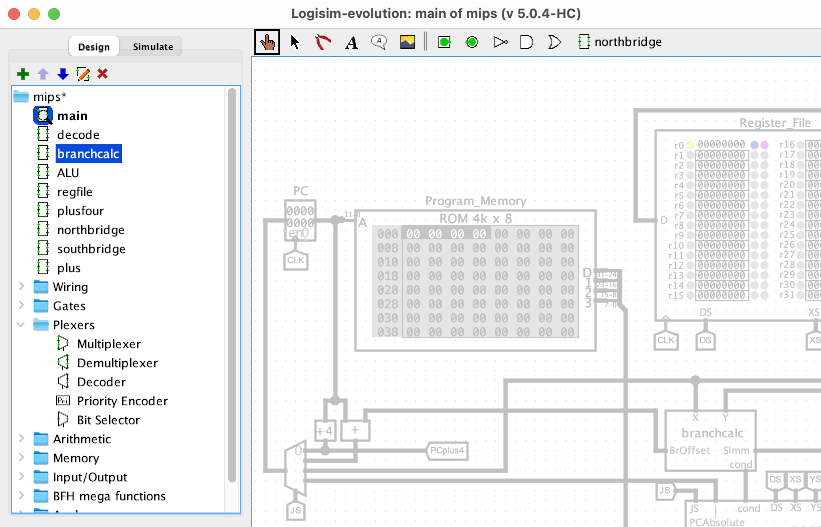
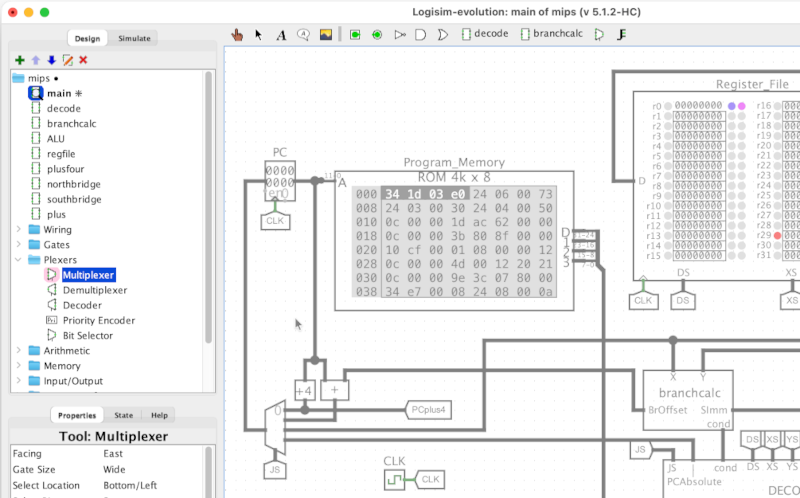
revise help for lib index

Changed region(s): [[0.0, 0.0, 1.0, 1.0], [0.0, 0.0, 0.0938, 0.0602]]

diff --git a/help/en/libs/index.html b/help/en/libs/index.html
@@ -6,8 +6,148 @@
 <script src="/logisim-evolution/sidebar.js"></script>
 <title>Tool and Library Reference</title>
 <link rel="stylesheet" type="text/css" href="/logisim-evolution/help.css">
-<link rel="stylesheet" href="callouts.css">
 <style>
+.callouts {
+    position: relative;
+    display: inline-block;
+    border: 1px solid #eee;
+}
+
+.container, .container *, .callouts ul *::before, .callouts ul *::after {
+    -moz-box-sizing: border-box;
+    -webkit-box-sizing: border-box;
+    box-sizing: border-box;
+    margin: 0;
+    padding: 0;
+}
+
+.callouts ul {
+    list-style-type: none;
+    position: absolute;
+    display: inline-block;
+    margin: 0px;
+    padding-inline-start: 0px;
+    --callout-color: #FDE; /* override in html */
+    top: 50px; /* override in html to position callout */
+    left: 50px; /* override in html to position callout */
+    max-width: 500px; /* override in html if desired */
+}
+
+.callouts li {
+    display: inline-block;
+    position: relative;
+    top: 0px;
+    left: 0px;
+    padding: 10px;
+    background-color: var(--callout-color);
+    box-shadow: 0 0 10px hsl(from var(--callout-color) h 100% 20%);
+}
+
+.callouts li .tip::before {
+    content: "Tip: ";
+    font-weight: bold;
+    font-style: italic;
+}
+.callouts li .tip {
+    margin: 5px 0 0 0;
+    color: hsl(from var(--callout-color) h 100% 25%);
+}
+
+/* TOP */
+.callouts--top::before {
+    content: "";
+    position: absolute;
+    width: 0;
+    height: 0;
+    left: 23px;
+    top: -42px;
+    border: 10px solid transparent;
+    border-bottom: 32px solid hsl(from var(--callout-color) h 100% 20% / 40%);
+    z-index: 2;
+}
+.callouts--top::after {
+    content: "";
+    position: absolute;
+    width: 0;
+    height: 0;
+    left: 25px;
+    top: -32px;
+    border: 8px solid transparent;
+    border-bottom: 25px solid var(--callout-color);
+    z-index: 3;
+}
+
+/* BOTTOM */
+.callouts--bottom::before {
+    content: "";
+    position: absolute;
+    width: 0;
+    height: 0;
+    left: 23px;
+    bottom: -42px;
+    border: 10px solid transparent;
+    border-top: 32px solid hsl(from var(--callout-color) h 100% 20% / 40%);
+    z-index: 2;
+}
+.callouts--bottom::after {
+    content: "";
+    position: absolute;
+    width: 0;
+    height: 0;
+    left: 25px;
+    bottom: -31px;
+    border: 8px solid transparent;
+    border-top: 24px solid var(--callout-color);
+    z-index: 3;
+}
+
+/* LEFT */
+.callouts--left::before {
+    content: "";
+    position: absolute;
+    width: 0;
+    height: 0;
+    left: -42px;
+    top: 18px;
+    border: 10px solid transparent;
+    border-right: 32px solid hsl(from var(--callout-color) h 100% 20% / 40%);
+    z-index: 2;
+}
+.callouts--left::after {
+    content: "";
+    position: absolute;
+    width: 0;
+    height: 0;
+    left: -31px;
+    top: 20px;
+    border: 8px solid transparent;
+    border-right: 24px solid var(--callout-color);
+    z-index: 3;
+}
+
+/* RIGHT */
+.callouts--right::before {
+    content: "";
+    position: absolute;
+    width: 0;
+    height: 0;
+    right: -42px;
+    top: 18px;
+    border: 10px solid transparent;
+    border-left: 32px solid hsl(from var(--callout-color) h 100% 20% / 40%);
+    z-index: 2;
+}
+.callouts--right::after {
+    content: "";
+    position: absolute;
+    width: 0;
+    height: 0;
+    right: -31px;
+    top: 20px;
+    border: 8px solid transparent;
+    border-left: 24px solid var(--callout-color);
+    z-index: 3;
+}
 </style>
 </head>
 
@@ -16,37 +156,42 @@
 <h1>Tool and Library Reference</h1>
 
 <div class="callouts">
-<img src="diagram.png"/>
+<img src="diagram.png" style="filter: drop-shadow(2px 2px gray);">
 
-<ul style="top: 75px; left: 270px; --callout-color: #EFC;">
+<ul style="top: 75px; left: 240px; --callout-color: #EFC;">
 <li class="callouts--top">
 <b>Toolbar</b> for quick access.  Use these to edit or interact with your
 circuit, or to add your favorite components.
 <p class="tip">Right-click or drag items to customize toolbar for each
 project.</li></ul>
 
-<ul style="top: 180px; left: 270px; --callout-color: #FCB;">
+<ul style="top: 180px; left: 240px; --callout-color: #FCB;">
 <li class="callouts--left">
 <b>Circuit List</b> for your project.  Double-click to open a circuit. Or,
 single-click to place one as a sub-circuit within another.
 <p class="tip">A circuit can be embedded as a sub-circuit within another, by
 selecting with single-click, then clicking to place it.</li></ul>
 
-<ul style="top: 320px; left: 270px; --callout-color: #BCF;">
+<ul style="top: 300px; left: 240px; --callout-color: #BCF;">
 <li class="callouts--left">
 <b>Standard and Custom Libraries</b> of components to build your circuits. Click
 to select, then click to place in your circuit.
 <p class="tip">Tip: Go to <b>Project &gt; Load Library</b> to add more libraries.</li></ul>
 
+<ul style="top: 400px; left: 240px; --callout-color: #D0F2F0;">
+<li class="callouts--left">
+<b>Properties</b> to configure tools and components in the circuit. Also try the
+<b>quick help</b> panel for reference.</li></ul>
+
 </div>
 
 <h2>Mouse Tools</h2>
 
-<p>By default the toolbar includes most of these mouse tools. These tools are
-visible only in the toolbar, when
+<p>The toolbar includes most mouse tools by default. All are
+also visible in <b>Project &gt; Options</b> when
 <a href="../guide/opts/toolbar.html">customizing the toolbar</a>, or in
 <a href="../guide/opts/mouse.html">mouse options</a> when creating custom
-shortcuts.</p>
+keyboard shortcuts.</p>
 
 <table class="liblisting">
 
@@ -73,7 +218,8 @@ shortcuts.</p>
 sidebar of each project. These can also appear in the toolbar. You can add
 additional libraries to your project using <b>Project &gt; Load Library</b>,
 including third-party libraries found online, and you can even write your own
-<a href="../guide/jar/library.html">custom jar or circ libraries</a>.</p>
+<a href="../guide/jar/library.html">custom jar library</a> or use import one project file into another to be used as a 
+<a href="../guide/jar/library.html">custom .circ library</a>.</p>
 
 <table class="liblisting">
 
